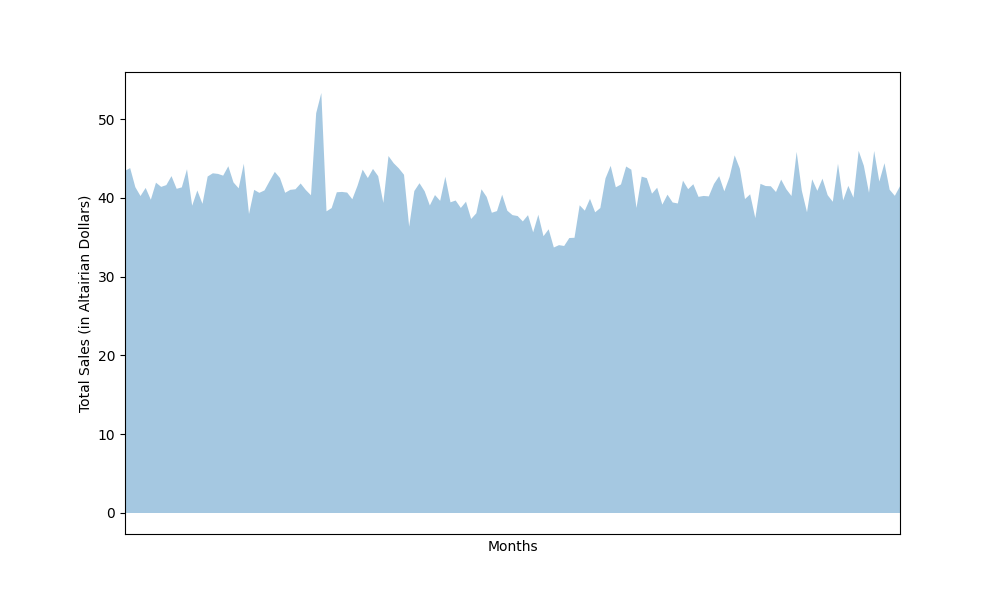
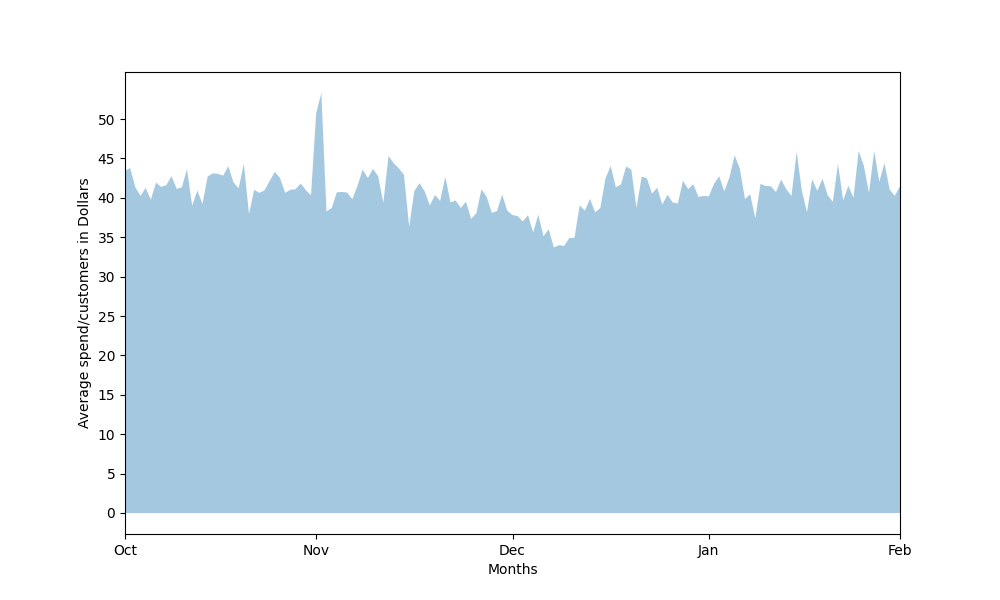
analytics

diff --git a/data-analytics/ex02/mustache.py b/data-analytics/ex02/mustache.py
@@ -1,0 +1,123 @@
+from utils.cnx import connect
+import numpy as np
+from matplotlib import pyplot as plt
+
+# mean, median, min, max, first, second and third quartile
+
+
+def load():
+    try:
+        with open("mustache.sql", 'r') as file:
+            request = file.read()
+        cnx = connect()
+        if cnx is None:
+            return
+        cursor = cnx.cursor()
+        cursor.execute(request)
+        data = cursor.fetchall()
+        cnx.commit()
+        cursor.close()
+        cnx.close()
+        # price = zip(*data) # price data
+
+        price, event_time = zip(*data)
+        count = len(data)
+        mean = np.mean(price)
+        median = np.median(price)
+        min = np.min(price)
+        max = np.max(price)
+        q1 = np.percentile(price, 25)
+        q2 = np.percentile(price, 50)
+        q3 = np.percentile(price, 75)
+
+        print(f"Count: {count}", flush=True)
+        print(f"Mean: {mean}", flush=True)
+        print(f"Median: {median}", flush=True)
+        print(f"Min: {min}", flush=True)
+        print(f"Max: {max}", flush=True)
+        print(f"25%: {q1}", flush=True)
+        print(f"50%: {q2}", flush=True)
+        print(f"75%: {q3}", flush=True)
+
+        plt.figure(figsize=(6, 6))
+        plt.boxplot(price, vert=False, patch_artist=True)
+        plt.title("Boxplot of Mustache Prices")
+        plt.xlabel("Price")
+        plt.ylabel("")
+        plt.savefig("script/boxplot.png", format="png")
+        plt.close()
+
+        plt.figure(figsize=(6, 6))
+        boxprops = dict(facecolor='green', edgecolor='black')
+        medianprops = dict(linestyle='-', linewidth=2, color='black')
+        plt.boxplot(
+            price,
+            vert=False,              # horizontal boxplot
+            patch_artist=True,       # allow box fill color
+            showfliers=False,        # hide outlier dots (matches image)
+
+            boxprops=dict(
+                facecolor="#7fbf7f", # green box
+                edgecolor="black",
+                linewidth=1.5
+            ),
+            medianprops=dict(
+                color="black",
+                linewidth=2
+            ),
+            whiskerprops=dict(
+                color="black",
+                linewidth=1.5
+            ),
+            capprops=dict(
+                color="black",
+                linewidth=1.5
+            )
+        )
+        plt.yticks([])
+        plt.xlabel("Price")
+        plt.title("Interquartile range (IQR)")
+        plt.savefig("script/boxplot1.png", format="png")
+        plt.close()
+
+
+    except Exception as error:
+        print(f"An error occurred while loading data: {error}", flush=True)
+
+
+def  average_basket_price():
+    try:
+        with open("mustache2.sql", 'r') as file:
+            request = file.read()
+        cnx = connect()
+        if cnx is None:
+            return
+
+        print("Executing SQL query for average basket price...", flush=True)
+        cursor = cnx.cursor()
+        cursor.execute(request)
+        data = cursor.fetchall()
+        cnx.commit()
+        cursor.close()
+        cnx.close()
+
+        user_id, average = zip(*data)
+        plt.figure(figsize=(10, 6))
+        plt.boxplot(average, vert=False, widths=0.5, notch=True,
+                boxprops=dict(facecolor='lightblue', edgecolor='black'),
+                flierprops=dict(marker='D', markersize=8, markerfacecolor='lightgray', markeredgecolor='none'),
+                patch_artist=True, whis=0.2)
+        plt.xlabel("User ID")
+        plt.ylabel("Average Basket Price")
+        plt.title("Average Basket Price per User")
+        plt.xticks(rotation=45)
+        plt.tight_layout()
+        plt.savefig("script/average_basket_price.png", format="png")
+        plt.close()
+
+    except Exception as error:
+         print(f"An error occurred while loading data: {error}", flush=True)
+
+if __name__ == "__main__":
+    load()
+    average_basket_price()

diff --git a/data-analytics/ex01/chart4.py b/data-analytics/ex01/chart4.py
@@ -3,6 +3,7 @@ import psycopg2
 import matplotlib.pyplot as plt
 from datetime import datetime
 from collections import defaultdict
+import numpy as np 
 
 DB_HOST = "postgres"
 DB_NAME = "piscineds"
@@ -46,14 +47,19 @@ def load():
         print("average:", len(average), flush=True)
         print("day:", len(day), flush=True)
     
+        x = range(len(day))
+        print("x:", type(x), flush=True)
+        print("day:", type(day), flush=True)
+        print("average:", type(average), flush=True)
         plt.figure(figsize=(10, 6))
-        plt.fill_between(day, average, alpha=0.4)
-        plt.ylabel("Total Sales (in Altairian Dollars)")
+        plt.fill_between(x, average, alpha=0.4)
+        plt.ylabel("Average spend/customers in Dollars")
         plt.xlabel("Months")
-        position = [0, len(day) // 4, 2 * len(day) // 4, 3 * len(day) // 4]
-        labels = ['Oct', 'Nov', 'Dec', 'Jan']
+        position = [0, len(day) // 4, 2 * len(day) // 4, 3 * len(day) // 4, len(day) - 1]
+        labels = ['Oct', 'Nov', 'Dec', 'Jan', 'Feb']
         plt.xticks(position, labels)
-        plt.xlim(day[0], day[-1])
+        plt.yticks(np.arange(0, max(average), 5))
+        plt.xlim(0, len(day) -1)
         plt.savefig("script/fill_chart.png", format="png")
         plt.close()
     except Exception as e:

diff --git a/data-analytics/utils/cnx.py b/data-analytics/utils/cnx.py
@@ -1,0 +1,23 @@
+import psycopg2
+
+DB_HOST = "postgres"
+DB_NAME = "piscineds"
+DB_USER = "hchaguer"
+DB_PASSWORD = "mysecretpassword"
+DB_PORT = 5432
+
+
+def connect():
+    try:
+        cnx = psycopg2.connect(
+            host=DB_HOST,
+            database=DB_NAME,
+            user=DB_USER,
+            password=DB_PASSWORD,
+            port=DB_PORT
+        )
+        print("Connection to the database was successful", flush=True)
+        return cnx
+    except Exception as error:
+        print(f"An error occurred while connecting to the database: {error}", flush=True)
+        return None
